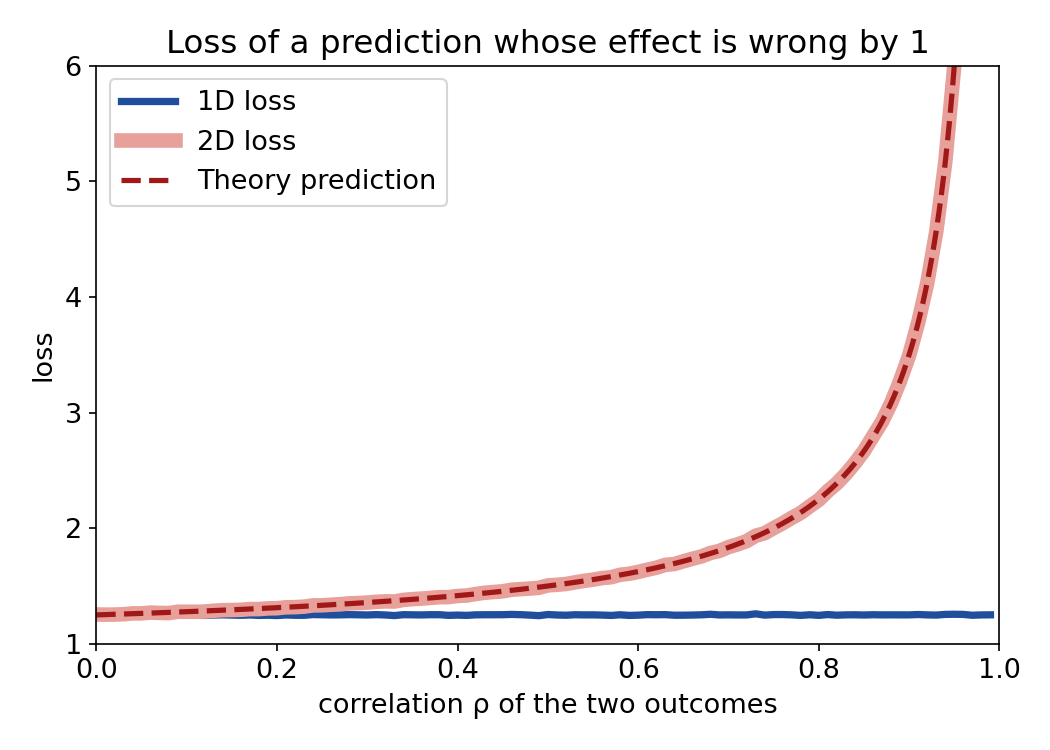
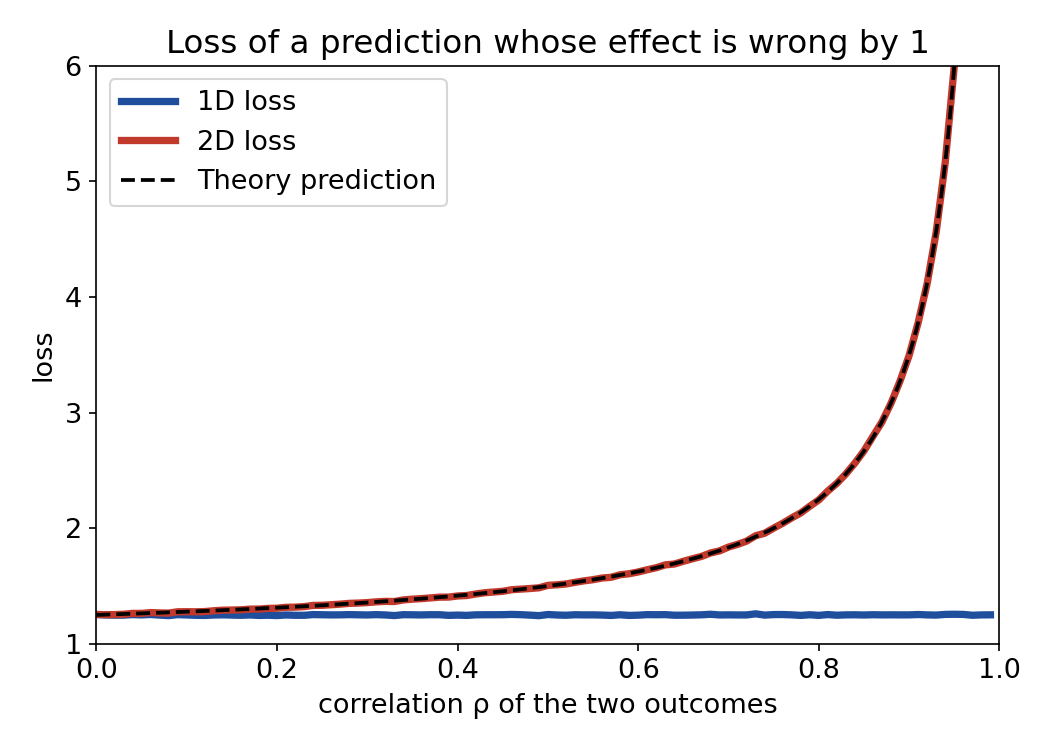
reason figure: equal line widths
Claude-Session: https://claude.ai/code/session_01AZV2d6TbWGuV4cMQVAXpNa

Changed region(s): [[0.0914, 0.092, 0.9143, 0.828], [0.0914, 0.1533, 0.1829, 0.2453]]

diff --git a/revision/theory/loss_geometry/fig_reason.py b/revision/theory/loss_geometry/fig_reason.py
@@ -24,8 +24,8 @@ theory = 1 + (L1.mean() - 1) / (1 - fine)
 plt.rcParams.update({"font.size": 13})
 fig, ax = plt.subplots(figsize=(7, 5))
 ax.plot(rhos, L1, "-", color="#1f4e9c", lw=3.5, label="1D loss")
-ax.plot(rhos, L2, "-", color="#e8a09a", lw=7, label="2D loss")
-ax.plot(fine, theory, "--", color="#a01818", lw=2.5, label="Theory prediction")
+ax.plot(rhos, L2, "-", color="#c0392b", lw=3.5, label="2D loss")
+ax.plot(fine, theory, "--", color="k", lw=1.8, label="Theory prediction")
 ax.set(xlabel="correlation ρ of the two outcomes", ylabel="loss", xlim=(0, 1), ylim=(1, 6),
        title="Loss of a prediction whose effect is wrong by 1")
 ax.legend(fontsize=13); fig.tight_layout()
